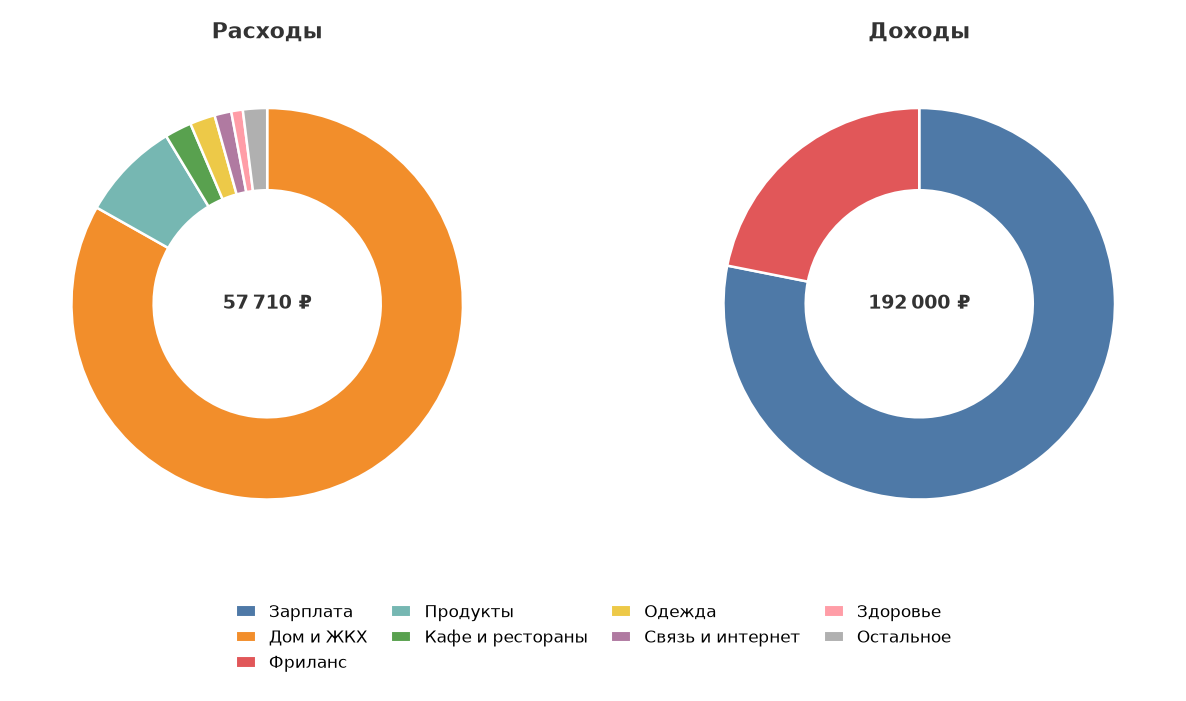
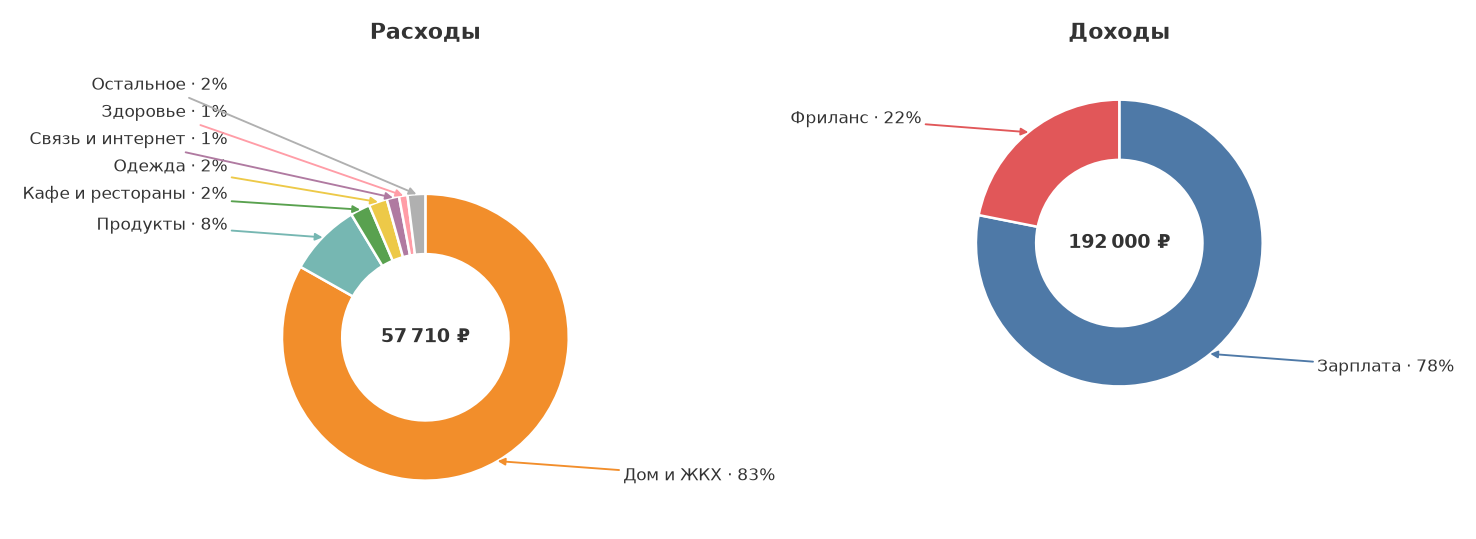
Draw chart labels with arrows and percentages instead of legend

diff --git a/bot/charts.py b/bot/charts.py
@@ -1,16 +1,18 @@
-"""PNG-диаграммы для отчётов: кольцевые схемы по категориям.
+"""PNG-диаграммы для отчётов: кольцевые схемы с подписями и процентами.
 
-Цвет каждой категории задаётся один раз на диаграмму и повторяется во всех
-панелях — так на семейном отчёте видно, что «Продукты» у всех одного цвета.
+Подписи стоят вокруг диаграммы, от каждой секции к своей подписи идёт
+стрелка. Цвет категории задаётся один раз на диаграмму и повторяется во всех
+панелях — на семейном отчёте «Продукты» у всех одного цвета.
 """
 
 from __future__ import annotations
 
 import io
+import math
 import os
 from pathlib import Path
 
-from .utils import format_money
+from .utils import format_money, percent
 
 
 def _configure_cache() -> None:
@@ -29,7 +31,6 @@ _configure_cache()
 
 from matplotlib.backends.backend_agg import FigureCanvasAgg  # noqa: E402
 from matplotlib.figure import Figure  # noqa: E402
-from matplotlib.patches import Patch  # noqa: E402
 
 PALETTE = (
     "#4E79A7",
@@ -52,6 +53,8 @@ PALETTE = (
 MUTED = "#B0B0B0"
 MAX_SLICES = 7
 MAX_PANELS = 6
+MIN_LABEL_GAP = 0.19
+LABEL_RADIUS = 1.38
 
 
 def _prepare(items: list[tuple[str, int]]) -> list[tuple[str, int]]:
@@ -87,17 +90,74 @@ def _colors_for(names: list[str]) -> dict[str, str]:
     }
 
 
+def _spread(entries: list[dict]) -> None:
+    """Раздвигает подписи по вертикали, чтобы они не наезжали друг на друга."""
+    entries.sort(key=lambda entry: entry["label_y"])
+    for index in range(1, len(entries)):
+        gap = entries[index]["label_y"] - entries[index - 1]["label_y"]
+        if gap < MIN_LABEL_GAP:
+            entries[index]["label_y"] = entries[index - 1]["label_y"] + MIN_LABEL_GAP
+
+
+def _label_wedges(axes, wedges, items: list[tuple[str, int]], colors: dict[str, str]) -> None:
+    total = sum(value for _, value in items)
+    entries: list[dict] = []
+
+    for wedge, (name, value) in zip(wedges, items):
+        angle = math.radians((wedge.theta1 + wedge.theta2) / 2.0)
+        cos_a, sin_a = math.cos(angle), math.sin(angle)
+        entries.append(
+            {
+                "name": name,
+                "value": value,
+                "cos": cos_a,
+                "sin": sin_a,
+                "side": 1 if cos_a >= 0 else -1,
+                "label_y": sin_a * 1.12,
+            }
+        )
+
+    _spread([entry for entry in entries if entry["side"] > 0])
+    _spread([entry for entry in entries if entry["side"] < 0])
+
+    for entry in entries:
+        share = percent(entry["value"], total) if total else 0
+        share_label = f"{share}%" if share else "<1%"
+        axes.annotate(
+            f"{entry['name']} · {share_label}",
+            xy=(entry["cos"] * 1.0, entry["sin"] * 1.0),
+            xytext=(entry["side"] * LABEL_RADIUS, entry["label_y"]),
+            ha="left" if entry["side"] > 0 else "right",
+            va="center",
+            fontsize=8,
+            color="#333333",
+            annotation_clip=False,
+            arrowprops={
+                "arrowstyle": "-|>",
+                "color": colors.get(entry["name"], "#888888"),
+                "lw": 0.9,
+                "shrinkA": 0,
+                "shrinkB": 0,
+                "mutation_scale": 7,
+            },
+        )
+
+    ys = [entry["label_y"] for entry in entries] or [0.0]
+    axes.set_xlim(-2.2, 2.2)
+    axes.set_ylim(min(-1.25, min(ys) - 0.15), max(1.25, max(ys) + 0.15))
+
+
 def _draw_donut(
     axes,
     items: list[tuple[str, int]],
     title: str,
     colors: dict[str, str],
     currency: str,
-) -> None:
+) -> list:
     values = [value for _, value in items]
     palette = [colors.get(name, MUTED) for name, _ in items]
 
-    axes.pie(
+    wedges, _ = axes.pie(
         values,
         colors=palette,
         startangle=90,
@@ -114,27 +174,10 @@ def _draw_donut(
         fontweight="bold",
         color="#333333",
     )
-    axes.set_title(title, fontsize=10.5, fontweight="bold", color="#333333", pad=10)
+    axes.set_title(title, fontsize=10.5, fontweight="bold", color="#333333", pad=12)
     axes.set_aspect("equal")
     axes.set_anchor("N")
-
-
-def _add_legend(fig: Figure, names: list[str], colors: dict[str, str]) -> int:
-    columns = min(4, max(1, len(names)))
-    handles = [
-        Patch(facecolor=colors[name], edgecolor="white", label=name) for name in names
-    ]
-    fig.legend(
-        handles=handles,
-        loc="lower center",
-        bbox_to_anchor=(0.5, 0.0),
-        ncol=columns,
-        frameon=False,
-        fontsize=8,
-        handlelength=1.2,
-        columnspacing=1.4,
-    )
-    return max(1, (len(names) + columns - 1) // columns)
+    return wedges
 
 
 def _to_png(fig: Figure) -> bytes:
@@ -157,21 +200,15 @@ def _build_panels(
     names = _ordered_names(panels)
     colors = _colors_for(names)
 
-    fig = Figure(figsize=(panel_width * len(panels), 4.5), dpi=150)
+    fig = Figure(figsize=(panel_width * len(panels), 4.4), dpi=150)
     FigureCanvasAgg(fig)
 
     axes_list = fig.subplots(1, len(panels), squeeze=False)[0]
     for axes, (title, items) in zip(axes_list, panels):
-        _draw_donut(axes, items, title, colors, currency)
+        wedges = _draw_donut(axes, items, title, colors, currency)
+        _label_wedges(axes, wedges, items, colors)
 
-    rows = _add_legend(fig, names, colors)
-    fig.subplots_adjust(
-        left=0.02,
-        right=0.98,
-        top=0.93,
-        bottom=0.04 + 0.055 * rows,
-        wspace=0.06,
-    )
+    fig.subplots_adjust(left=0.02, right=0.98, top=0.90, bottom=0.03, wspace=0.10)
     return _to_png(fig)
 
 
@@ -192,7 +229,7 @@ def expenses_income_chart(
     if not panels:
         return None
 
-    return _build_panels(panels, currency, panel_width=4.4)
+    return _build_panels(panels, currency, panel_width=4.6)
 
 
 def family_chart(
@@ -213,4 +250,4 @@ def family_chart(
             panels.append((short_name, prepared))
 
     panels = panels[:MAX_PANELS]
-    return _build_panels(panels, currency, panel_width=3.9)
+    return _build_panels(panels, currency, panel_width=4.2)

diff --git a/README.md b/README.md
@@ -33,8 +33,9 @@
 ![Семья: общая диаграмма и по участникам](docs/chart-family.png)
 
 Цвет категории одинаковый на всех диаграммах, поэтому «Продукты» у всех
-участников одного цвета. Крупные категории подписаны в легенде, мелкие
-объединены в «Остальное», в центре — сумма.
+участников одного цвета. Подписи с процентами стоят вокруг диаграммы, от
+каждой секции к своей подписи идёт стрелка, мелкие категории объединены
+в «Остальное», в центре — сумма.
 
 ## Быстрый старт
 
